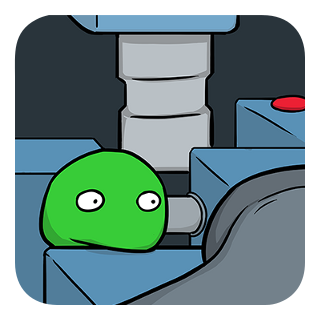
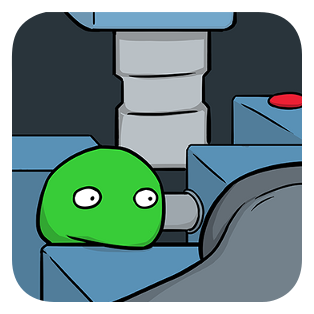
Pretty selection box.

diff --git a/BlobGame/src/org/siggd/MenuController.java b/BlobGame/src/org/siggd/MenuController.java
@@ -16,6 +16,7 @@ import com.badlogic.gdx.controllers.ControllerListener;
 import com.badlogic.gdx.controllers.Controllers;
 import com.badlogic.gdx.controllers.PovDirection;
 import com.badlogic.gdx.graphics.Color;
+import com.badlogic.gdx.graphics.GL10;
 import com.badlogic.gdx.graphics.GLCommon;
 import com.badlogic.gdx.graphics.glutils.ShapeRenderer;
 import com.badlogic.gdx.graphics.glutils.ShapeRenderer.ShapeType;
@@ -48,7 +49,7 @@ public class MenuController implements InputProcessor, ControllerListener {
 
 	public boolean ignore; // > Flag whether to ignore any further inputs;
 
-	private static float sLineWidth = 3;
+	private static float sLineWidth = 6f;
 
 	/**
 	 * Constructs a new MenuController, defaults selected index to 0
@@ -236,7 +237,6 @@ public class MenuController implements InputProcessor, ControllerListener {
 			if (c != null) {
 				Actor selected = (Actor) (c.getWidget());
 				shapeRender.setColor(Blob.colors(mPlayerId));
-				GLCommon gl = Gdx.graphics.getGLCommon();
 				shapeRender.begin(ShapeType.Line);
 				Vector2 topleft = new Vector2(mTable.getX() + selected.getX(), mTable.getY()
 						+ selected.getY());
@@ -247,19 +247,68 @@ public class MenuController implements InputProcessor, ControllerListener {
 				Vector2 bottomright = new Vector2(mTable.getX() + selected.getX()
 						+ selected.getWidth(), mTable.getY() + selected.getY()
 						+ selected.getHeight());
-				float half = sLineWidth / 2 + .01f;
-				shapeRender.line(topleft.cpy().sub(new Vector2(half, 0)),
-						topright.cpy().add(new Vector2(half, 0)));
-				shapeRender.line(bottomleft.cpy().sub(new Vector2(half, 0)),
-						bottomright.cpy().add(new Vector2(half, 0)));
-				shapeRender.line(topleft.cpy().sub(new Vector2(0, half)),
-						bottomleft.cpy().add(new Vector2(0, half)));
-				shapeRender.line(topright.cpy().sub(new Vector2(0, half)),
-						bottomright.cpy().add(new Vector2(0, half)));
 
-				gl.glLineWidth(sLineWidth);
-				shapeRender.end();
-				gl.glLineWidth(1);
+				float arcsize = selected.getWidth() / 7f;
+				Vector2 lt = topleft.cpy().add(0, arcsize);
+				Vector2 lb = bottomleft.cpy().add(0, -arcsize);
+				Vector2 rt = bottomright.cpy().add(0, -arcsize);
+				Vector2 rb = topright.cpy().add(0, arcsize);
+				Vector2 tl = topleft.cpy().add(arcsize, 0);
+				Vector2 tr = topright.cpy().add(-arcsize, 0);
+				Vector2 bl = bottomleft.cpy().add(arcsize, 0);
+				Vector2 br = bottomright.cpy().add(-arcsize, 0);
+
+				shapeRender.line(tl, tr); // top
+				shapeRender.line(bl, br); // bottom
+				shapeRender.line(lt, lb); // left
+				shapeRender.line(rt, rb); // right
+
+				Vector2 start = lb.cpy();
+				Vector2 trav = new Vector2(0, arcsize * 1.74f);
+				int iter = 16;
+				for (int i = 0; i < iter; i++) {
+					start.sub(trav.cpy().scl(.045f / iter));
+					trav.rotate(-90f / iter);
+					shapeRender.line(start.cpy(), start.add(trav.cpy().scl(1f / iter))); // right
+				}
+
+				start = br.cpy();
+				trav = new Vector2(arcsize * 1.74f, 0);
+				for (int i = 0; i < iter; i++) {
+					start.sub(trav.cpy().scl(.045f / iter));
+					trav.rotate(-90f / iter);
+					shapeRender.line(start.cpy(), start.add(trav.cpy().scl(1f / iter))); // right
+				}
+
+				start = rb.cpy();
+				trav = new Vector2(0, -arcsize * 1.74f);
+				for (int i = 0; i < iter; i++) {
+					start.sub(trav.cpy().scl(.045f / iter));
+					trav.rotate(-90f / iter);
+					shapeRender.line(start.cpy(), start.add(trav.cpy().scl(1f / iter))); // right
+				}
+
+				start = tl.cpy();
+				trav = new Vector2(-arcsize * 1.74f, 0);
+				for (int i = 0; i < iter; i++) {
+					start.sub(trav.cpy().scl(.045f / iter));
+					trav.rotate(-90f / iter);
+					shapeRender.line(start.cpy(), start.add(trav.cpy().scl(1f / iter))); // right
+				}
+
+				GLCommon gl10 = Gdx.graphics.getGLCommon();
+				gl10.glEnable(GL10.GL_BLEND);
+				if (!Gdx.graphics.isGL20Available()) {
+					gl10.glLineWidth(sLineWidth);
+					shapeRender.end();
+					gl10.glLineWidth(1);
+				} else {
+					Gdx.gl20.glLineWidth(sLineWidth);
+					shapeRender.end();
+					Gdx.gl20.glLineWidth(1);
+				}
+
+				gl10.glDisable(GL10.GL_BLEND);
 			}
 		}
 	}

diff --git a/BlobGame/src/org/siggd/view/MenuView.java b/BlobGame/src/org/siggd/view/MenuView.java
@@ -23,6 +23,7 @@ import com.badlogic.gdx.controllers.PovDirection;
 import com.badlogic.gdx.files.FileHandle;
 import com.badlogic.gdx.graphics.Color;
 import com.badlogic.gdx.graphics.GL10;
+import com.badlogic.gdx.graphics.GLCommon;
 import com.badlogic.gdx.graphics.Pixmap;
 import com.badlogic.gdx.graphics.Pixmap.Format;
 import com.badlogic.gdx.graphics.Texture;
@@ -531,6 +532,7 @@ public class MenuView {
 
 		// Table.drawDebug(mStage);
 		mShapeRenderer.setProjectionMatrix(mStage.getCamera().combined);
+
 		JSONObject levelSave = Game.get().getLevel().getLevelSave();
 		if (LEVELS.equals(mCurrentMenu)) {
 			for (String s : mLevel1.keySet()) {
